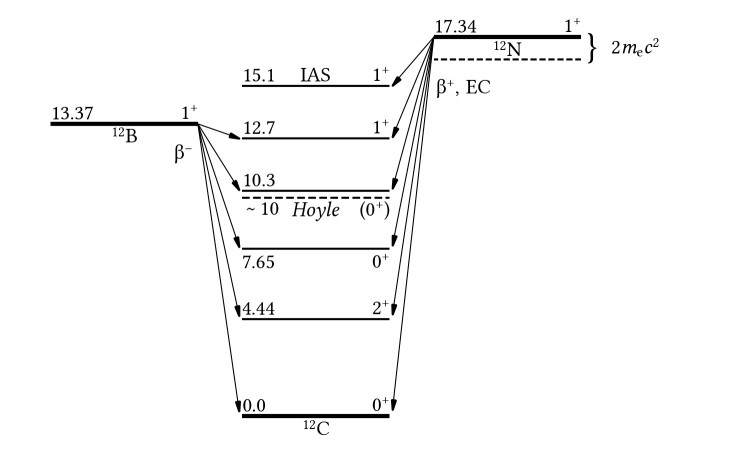
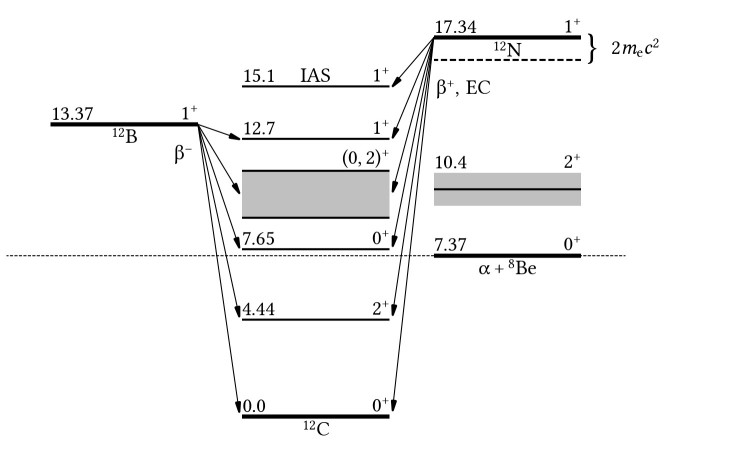
improved 12C and 8Be decay schemes

diff --git a/decay_scheme/decay_scheme_drawer.py b/decay_scheme/decay_scheme_drawer.py
@@ -206,9 +206,10 @@ def draw_decay_scheme(decay_scheme, figname='decay_scheme.pdf', no_save=False, a
                 plt.hlines(y1 - 2*mec2, x1, x2, ls=(1, (3, 1.3)), lw=1.0, color=level.color)
                 plt.text(x2 + bracket_offset + level.QEC_x_adjust, y1 - mec2 + level.QEC_y_adjust, "}", fontsize=16, va='center', ha='left')
                 QEC_text = plt.text(x2 + QEC_text_offset + level.QEC_x_adjust, y1 - mec2 + level.QEC_y_adjust, "$2m_{\mathrm{e}}c^2$", va='center', ha='left')
-                adjust_right(QEC_text, nuclide_to_inch, MeV_to_inch, bracket_offset+QEC_text_offset)
-                QEC_text_width, h = get_text_field_dims(QEC_text)
-                QEC = True
+                if nuclide.index == decay_scheme.num_nuclides - 1:
+                    adjust_right(QEC_text, nuclide_to_inch, MeV_to_inch, bracket_offset+QEC_text_offset)
+                # QEC_text_width, h = get_text_field_dims(QEC_text)
+                # QEC = True
             if level.draw_reference_line:
                 plt.hlines(y1, -hor_padding, total_width - hor_padding, ls=(1, (3, 1.3)), lw=0.5, color=level.color)
             if level.text_below:
@@ -224,23 +225,43 @@ def draw_decay_scheme(decay_scheme, figname='decay_scheme.pdf', no_save=False, a
                     above_text = plt.text(x1 + 0.5, y2 + above_text_offset + level.text_above_x_adjust, level.text_above + level.text_above_y_adjust, va='bottom', ha='center')
                     if level.upper_energy == max_e:
                         adjust_top(above_text, nuclide_to_inch, MeV_to_inch, above_text_offset)
-        padding += hor_padding + QEC*(QEC_text_width + bracket_offset + QEC_text_offset)
+        padding += hor_padding# + QEC*(QEC_text_width + bracket_offset + QEC_text_offset)
     decays = decay_scheme.decays
     for decay in decays:
         # this part should be simple, but matplotlib's standard arrows are ugly because their heads are drawn relative to data coordinates; "fancyarrowpatches" do not have this problem, but the variety of head shapes is limitied... so we draw the arrows ourselves
         # may the user ImportanceOfBeingErnest be prosperous and succesful and have many beautiful children! https://stackoverflow.com/questions/53227057/size-distortion-when-rotating-custom-path-marker-in-matplotlib
-        x1 = decay.parent_nuclide.index * (1 + hor_padding)
-        y1 = decay.parent_level.energy - y_corr if decay.parent_level.energy > y_upper_excl else decay.parent_level.energy
-        x2 = decay.daughter_nuclide.index*(1 + hor_padding)
-        y2 = decay.daughter_level.energy - y_corr if decay.daughter_level.energy > y_upper_excl else decay.daughter_level.energy
+        pn = decay.parent_nuclide
+        pl = decay.parent_level
+        dn = decay.daughter_nuclide
+        dl = decay.daughter_level
+
+        x1 = pn.index * (1 + hor_padding)
+        y1 = 0.
+        if pl.many:
+            y1 = pl.energy + (pl.upper_energy - pl.energy)/2 - y_corr if pl.energy > y_upper_excl else pl.energy + (pl.upper_energy - pl.energy)/2
+        else:
+            y1 = pl.energy - y_corr if pl.energy > y_upper_excl else pl.energy
+        x2 = dn.index*(1 + hor_padding)
+        y2 = 0.
+        if dl.many:
+            y2 = dl.energy + (dl.upper_energy - dl.energy)/2 - y_corr if dl.energy > y_upper_excl else dl.energy + (dl.upper_energy - dl.energy)/2
+        else:
+            y2 = dl.energy - y_corr if dl.energy > y_upper_excl else dl.energy
 
         x1, y1, x2, y2 = calculate_arrow_offsets(x1, y1, x2, y2, nuclide_to_inch, MeV_to_inch)
 
         draw_arrow(x1, y1, x2, y2)
     decays_to_coordinates = decay_scheme.decays_to_coordinates
     for decay_to_coordinate in decays_to_coordinates:
-        x1 = decay_to_coordinate.parent_nuclide.index * (1 + hor_padding)
-        y1 = decay_to_coordinate.parent_level.energy - y_corr if decay_to_coordinate.parent_level.energy > y_upper_excl else decay_to_coordinate.parent_level.energy
+        pn = decay_to_coordinate.parent_nuclide
+        pl = decay_to_coordinate.parent_level
+
+        x1 = pn.index * (1 + hor_padding)
+        y1 = 0.
+        if pl.many:
+            y1 = pl.energy + (pl.upper_energy - pl.energy) / 2 - y_corr if pl.energy > y_upper_excl else pl.energy + (pl.upper_energy - pl.energy) / 2
+        else:
+            y1 = pl.energy - y_corr if pl.energy > y_upper_excl else pl.energy
         x2 = decay_to_coordinate.x
         y2 = decay_to_coordinate.y - y_corr if decay_to_coordinate.y > y_upper_excl else decay_to_coordinate.y
 

diff --git a/example2_12c.py b/example2_12c.py
@@ -7,22 +7,24 @@ b12.add_level(b12_gs)
 c12 = nuclide(1, "12C")
 c12_0 = level(0.0, '0', '+', lw=2.0, text_below='$\mathrm{^{12}C}$')
 c12_1 = level(4.44, '2', '+', energy_format_string="%1.2f")
-c12_2 = level(7.65, '0', '+', energy_format_string="%1.2f", energy_spin_parity_below=True)
-c12_3 = level(10., '', '', ls='--', hide_energy_spin_parity=True)
-c12_4 = level(10.3, '', '', energy_format_string="%2.1f")
-c12_5 = level(12.7, '1', '+', energy_format_string="%2.1f")
-c12_6 = level(15.1, '1', '+', energy_format_string="%2.1f", text_above='IAS')
+c12_2 = level(7.65, '0', '+', energy_format_string="%1.2f")
+c12_many = level(7.65 + (12.7 - 7.65)/3.5, '', '', many=True, upper_energy=12.7 - (12.7 - 7.65)/3.5, hide_energy_spin_parity=True)
+c12_3 = level(12.7, '1', '+', energy_format_string="%2.1f")
+c12_4 = level(15.1, '1', '+', energy_format_string="%2.1f", text_above='IAS')
 c12.add_level(c12_0)
 c12.add_level(c12_1)
 c12.add_level(c12_2)
+c12.add_level(c12_many)
 c12.add_level(c12_3)
 c12.add_level(c12_4)
-c12.add_level(c12_5)
-c12.add_level(c12_6)
 
 n12 = nuclide(2, "12N")
 n12_gs = level(17.34, '1', '+', lw=2.0, text_below='$\mathrm{^{12}N}$', draw_QEC_level_below=True, energy_format_string="%2.2f")
 n12.add_level(n12_gs)
+be8a_gs = level(7.37, '0', '+', lw=2.0, text_below='$\mathrm{\\alpha+^{8}Be}$', energy_format_string="%2.2f", draw_reference_line=True)
+n12.add_level(be8a_gs)
+be8a_broad = level(10.4, '2', '+', broad=True, upper_energy=10.4+0.75, energy_format_string="%2.1f")
+n12.add_level(be8a_broad)
 
 ds = decay_scheme()
 ds.add_nuclide(b12)
@@ -32,20 +34,18 @@ ds.add_nuclide(n12)
 ds.add_decay(decay(b12, b12_gs, c12, c12_0))
 ds.add_decay(decay(b12, b12_gs, c12, c12_1))
 ds.add_decay(decay(b12, b12_gs, c12, c12_2))
-ds.add_decay(decay(b12, b12_gs, c12, c12_4))
-ds.add_decay(decay(b12, b12_gs, c12, c12_5))
+ds.add_decay(decay(b12, b12_gs, c12, c12_many))
+ds.add_decay(decay(b12, b12_gs, c12, c12_3))
 
 ds.add_decay(decay(n12, n12_gs, c12, c12_0))
 ds.add_decay(decay(n12, n12_gs, c12, c12_1))
 ds.add_decay(decay(n12, n12_gs, c12, c12_2))
+ds.add_decay(decay(n12, n12_gs, c12, c12_many))
+ds.add_decay(decay(n12, n12_gs, c12, c12_3))
 ds.add_decay(decay(n12, n12_gs, c12, c12_4))
-ds.add_decay(decay(n12, n12_gs, c12, c12_5))
-ds.add_decay(decay(n12, n12_gs, c12, c12_6))
 
 ds.add_freetext(freetext('$\mathrm{\\beta^{-}}$', 0.9, 12.))
-ds.add_freetext(freetext('$\sim10$', 1.3, 9.9, va='top', ha='left'))
-ds.add_freetext(freetext('$(0^{+})$', 2.3, 9.9, va='top', ha='right'))
-ds.add_freetext(freetext('$\mathit{Hoyle}$', 1.3 + 1/2, 9.9, va='top', ha='center'))
+ds.add_freetext(freetext('$(0,2)^{+}$', 2.3, 12.7 - (12.7 - 7.65)/3.5 + 0.1, va='bottom', ha='right'))
 ds.add_freetext(freetext('$\mathrm{\\beta^{+},\,EC}$', 2.8, 15.))
 
 draw_decay_scheme(ds, MeV_to_inch=0.15, no_save=True)

diff --git a/example3_8be.py b/example3_8be.py
@@ -11,7 +11,7 @@ aa.add_level(aa_gs)
 be8 = nuclide(2, "8Be")
 be8_gs = level(0.0, '0', '+', lw=2.0, text_below='$\mathrm{^{8}Be}$')
 be8.add_level(be8_gs)
-be8_broad = level(3.03, '2', '+', broad=True, upper_energy=3.03+1.51, energy_format_string='%2.2f')
+be8_broad = level(3.03, '2', '+', broad=True, upper_energy=3.03+0.75, energy_format_string='%2.2f')
 be8.add_level(be8_broad)
 be8_166 = level(16.6, '2', '+', energy_format_string='%2.1f', energy_spin_parity_below=True, energy_y_adjust=+0.15, spin_parity_y_adjust=+0.15)
 be8.add_level(be8_166)
